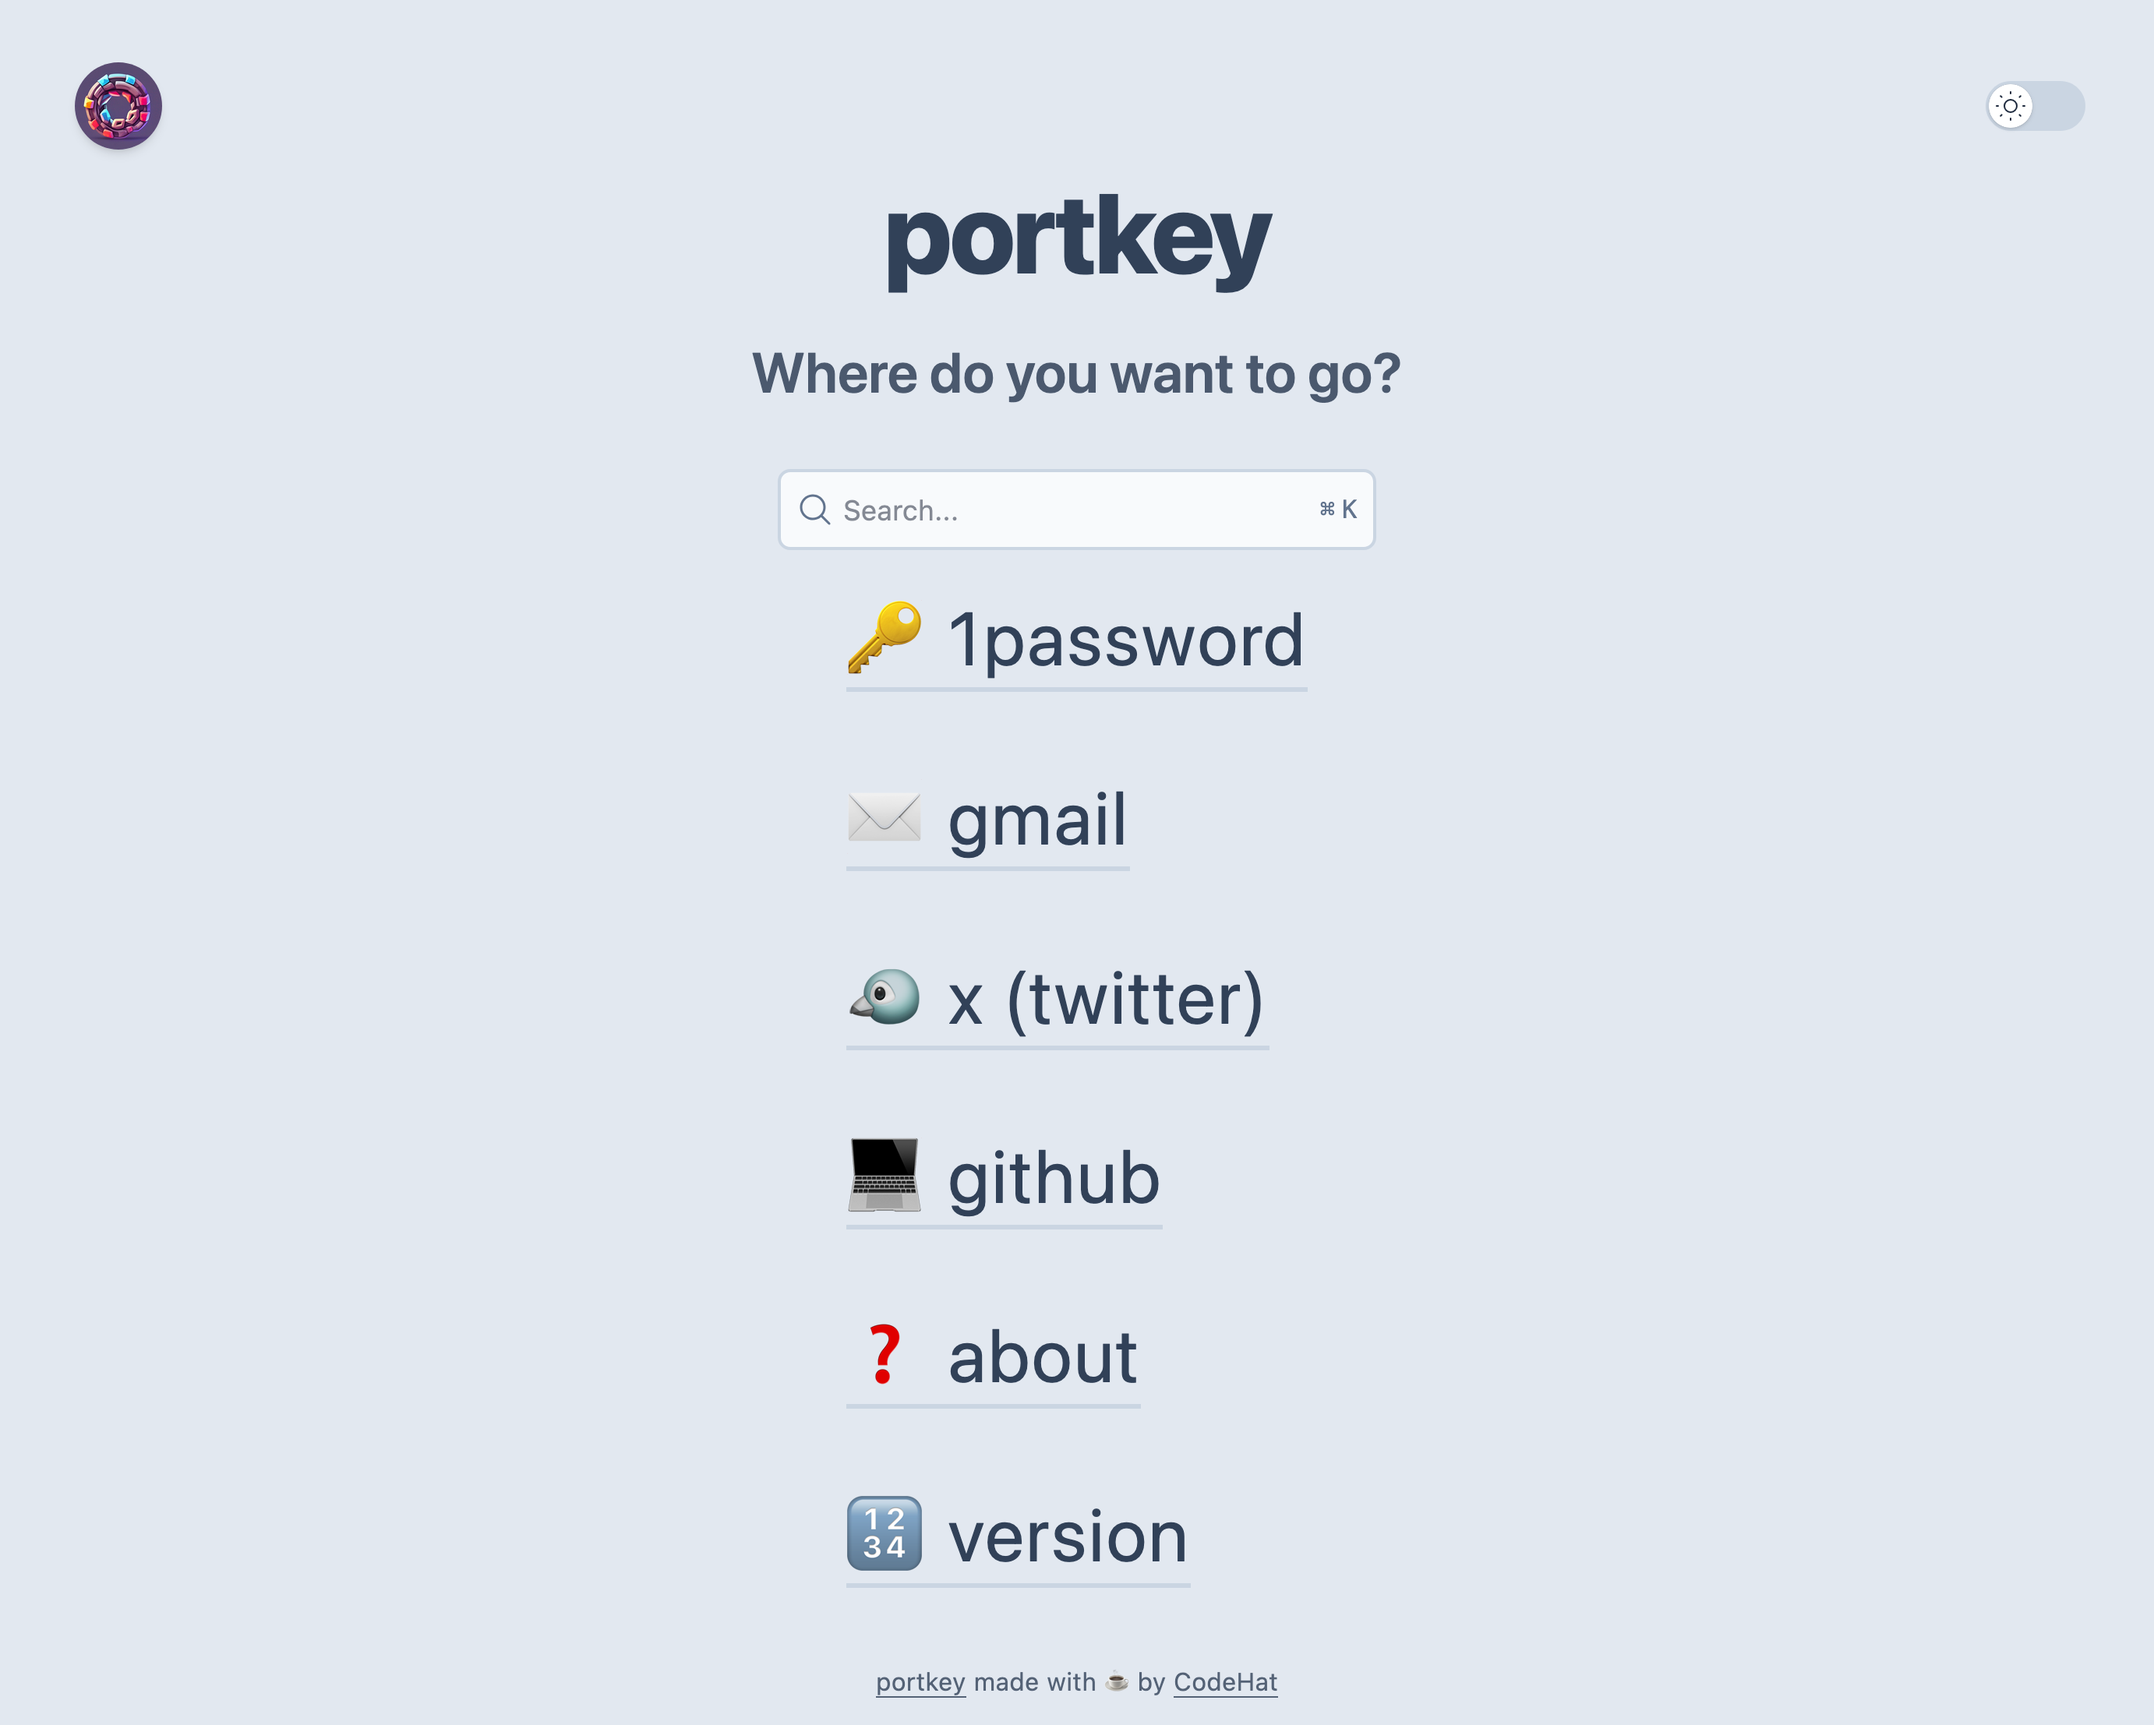
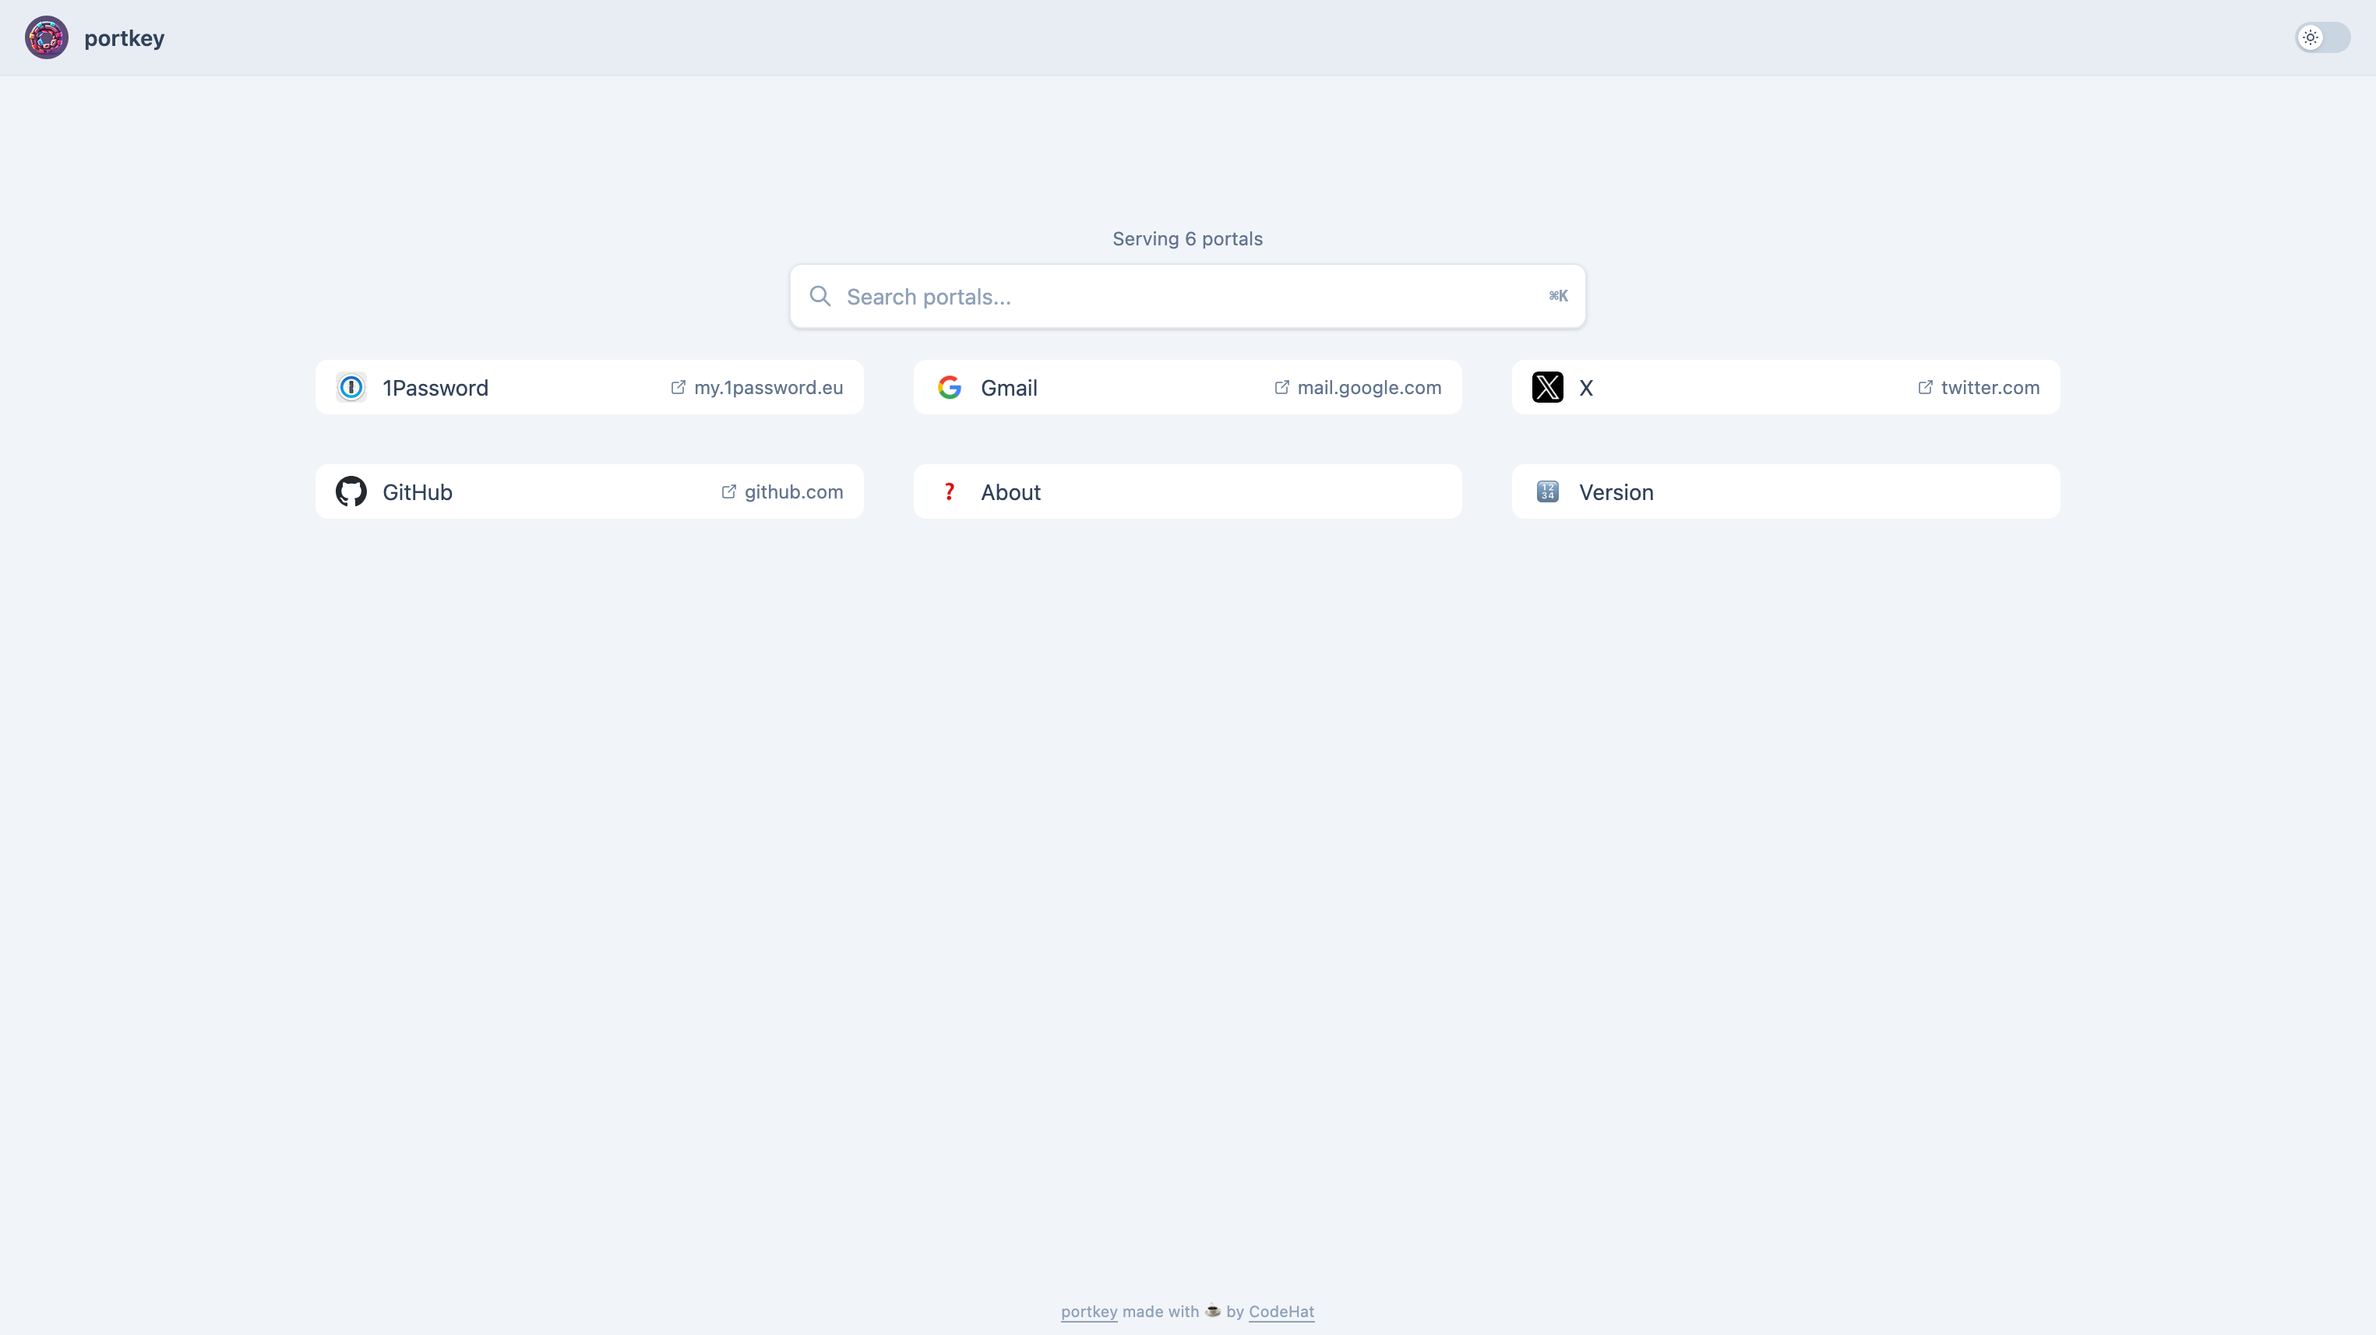
chore: update README and screenshots for version 4.0.0 redesign

diff --git a/README.md b/README.md
@@ -1,8 +1,3 @@
-> [!IMPORTANT]
-> **Version 4.0.0** ships a complete redesign of the UI.
-> The live demo at [demo.portkey.page](https://demo.portkey.page) reflects the latest version.
-> The screenshots later in this document still show the previous version and have not yet been updated to reflect the 4.0.0 redesign.
-
 <p align="center"><img src="docs/images/logo.png" alt="portkey logo"></p>
 
 <h1 align="center">portkey</h1>
